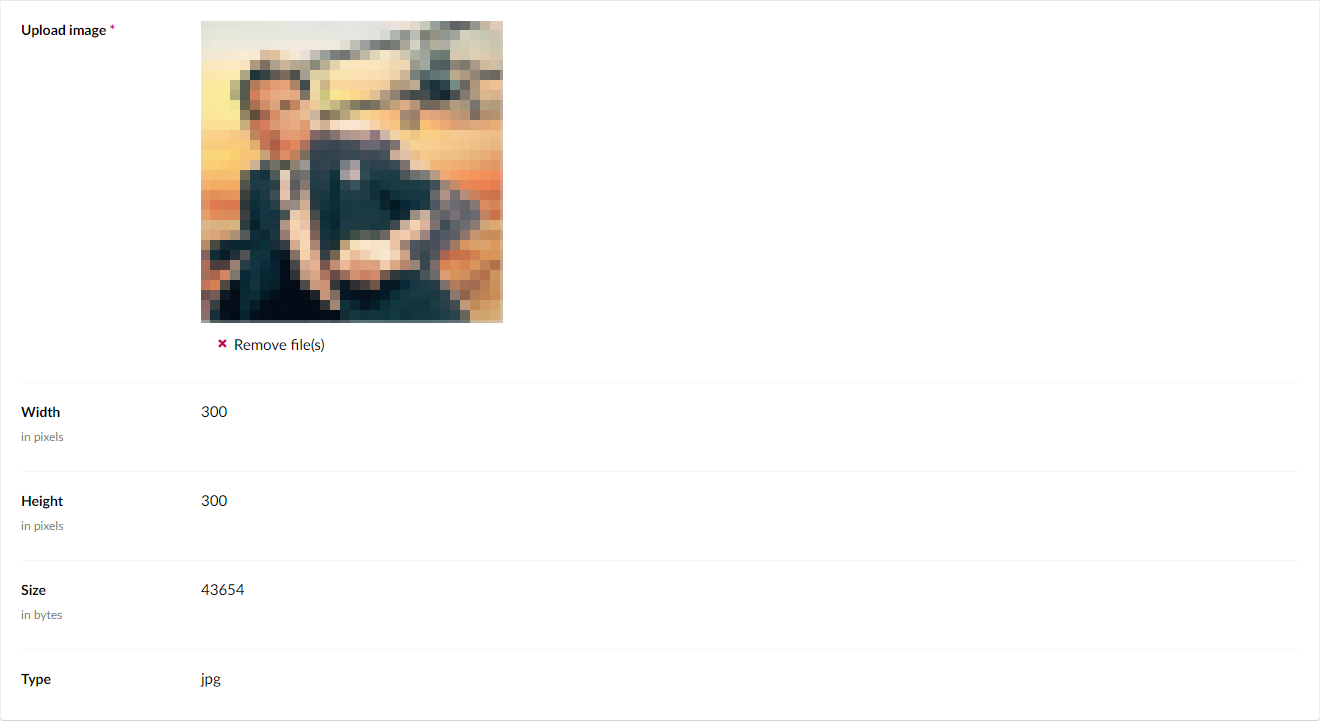
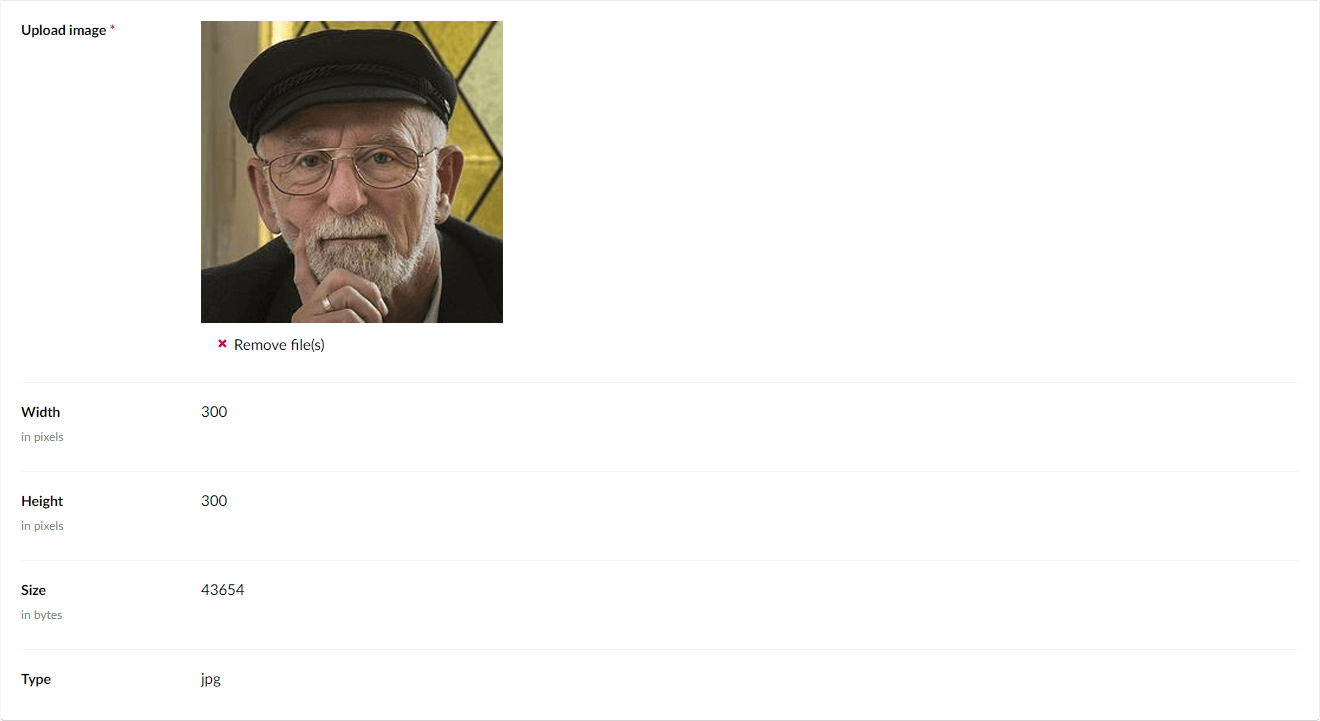
:orange_book: Updated "Bytes" screenshots

Changed region(s): [[0.1553, 0.0305, 0.4038, 0.4577]]

diff --git a/docs/editors/bytes.md b/docs/editors/bytes.md
@@ -8,7 +8,7 @@ Bytes is a drop-in replacement for Umbraco's "Label (bigint)" Data Type.
 
 When you've uploaded an image to the Media section, have you wondered why the "Size" field displays such a long number?
 
-![Label (bigint) property-editor - showing long (bigint) value](bytes--property-editor-00.png)
+![Label (bigint) property-editor - showing long (bigint) value, feat. Werner Buchholz](bytes--property-editor-00.png)
 
 Of course, it's the filesize of the image - in bytes. But how many kilobytes or megabytes is that?
 
@@ -38,7 +38,7 @@ The intended purpose for Bytes was to replace the "Size" property on the "File" 
 
 Once you have added the configured Data Type to your Media Type, the bytes will be displayed.
 
-![Bytes property-editor - showing value formatted in bytes](bytes--property-editor-01.png)
+![Bytes property-editor - showing value formatted in bytes, feat. Werner Buchholz](bytes--property-editor-01.png)
 
 This property-editor is a read-only label.
 
